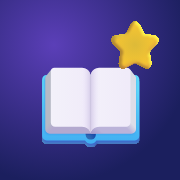
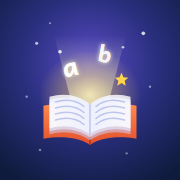
Android preview 0.9.5 (versionCode 6): de balk met "Leren..." onder de statusbalk is weg (MainActivity zet eerst het app-thema, anders kreeg het venster de titelbalk van het opstart-thema). Nieuw, zelf getekend app-icoon: open boek met doorschijnende bladzijden, gloed en zwevende letters; ook voor d

diff --git a/android/app/src/main/java/nl/pbeeltje/lerenlezen/MainActivity.java b/android/app/src/main/java/nl/pbeeltje/lerenlezen/MainActivity.java
@@ -14,6 +14,10 @@ public class MainActivity extends BridgeActivity {
 
     @Override
     protected void onCreate(Bundle savedInstanceState) {
+        // Eerst het gewone app-thema (zonder titelbalk). EdgeToEdge.enable maakt het venster al
+        // aan; met nog het opstart-thema kreeg dat een titelbalk ("Leren..." met het
+        // opstartplaatje uitgerekt erachter) die onder de statusbalk bleef staan.
+        setTheme(R.style.AppTheme_NoActionBar);
         // Aanbevolen door Capacitor 8 (SystemBars, insetsHandling 'css'): de webview loopt
         // tot de randen, de CSS houdt met --safe-area-inset-* rekening met de balken.
         EdgeToEdge.enable(this);

diff --git a/.claude/skills/leren-lezen-content/app.md b/.claude/skills/leren-lezen-content/app.md
@@ -23,8 +23,15 @@
   ANDROID_HOME set: `gradlew assembleRelease bundleRelease`. Output to
   `C:\claude\leren-lezen-preview\`. Raise `versionCode` for every Play upload.
 - Android e2e: Playwright `_android.devices()` → `device.webView({ pkg })`
-  (connectOverCDP doesn't work); typing via `adb shell input text`. A stale strip
-  under the status bar on the emulator (Chrome 133 WebView) is a display glitch.
+  (connectOverCDP doesn't work); typing via `adb shell input text`.
+- `MainActivity` calls `setTheme(R.style.AppTheme_NoActionBar)` before `EdgeToEdge.enable`:
+  that call creates the window, and with the launch theme still active it got a native
+  title bar ("Leren..." + stretched splash) under the status bar, on real phones too.
+- App icon: drawn by `bronbestanden/maak-app-icoon.mjs` (open book, see-through pages,
+  glow, floating Andika letters). It writes the Android adaptive layers (no inset in
+  `mipmap-anydpi-v26/*.xml`; the foreground is scaled to fit the launcher's middle 72 dp),
+  legacy/round icons, `public/app/icoon-*.png` and the iOS 1024 icon. Change the drawing
+  there and rerun; pass a png path for a preview of the launcher crops.
 - iOS: `.github/workflows/ios-prototype.yml` (macos-26, Xcode 26) builds for the
   simulator, injects `.github/ios-demo.js` to click through, uploads screenshots.
   Signing/TestFlight not set up; see `C:\claude\leren-lezen-iphone-plan.md`.
